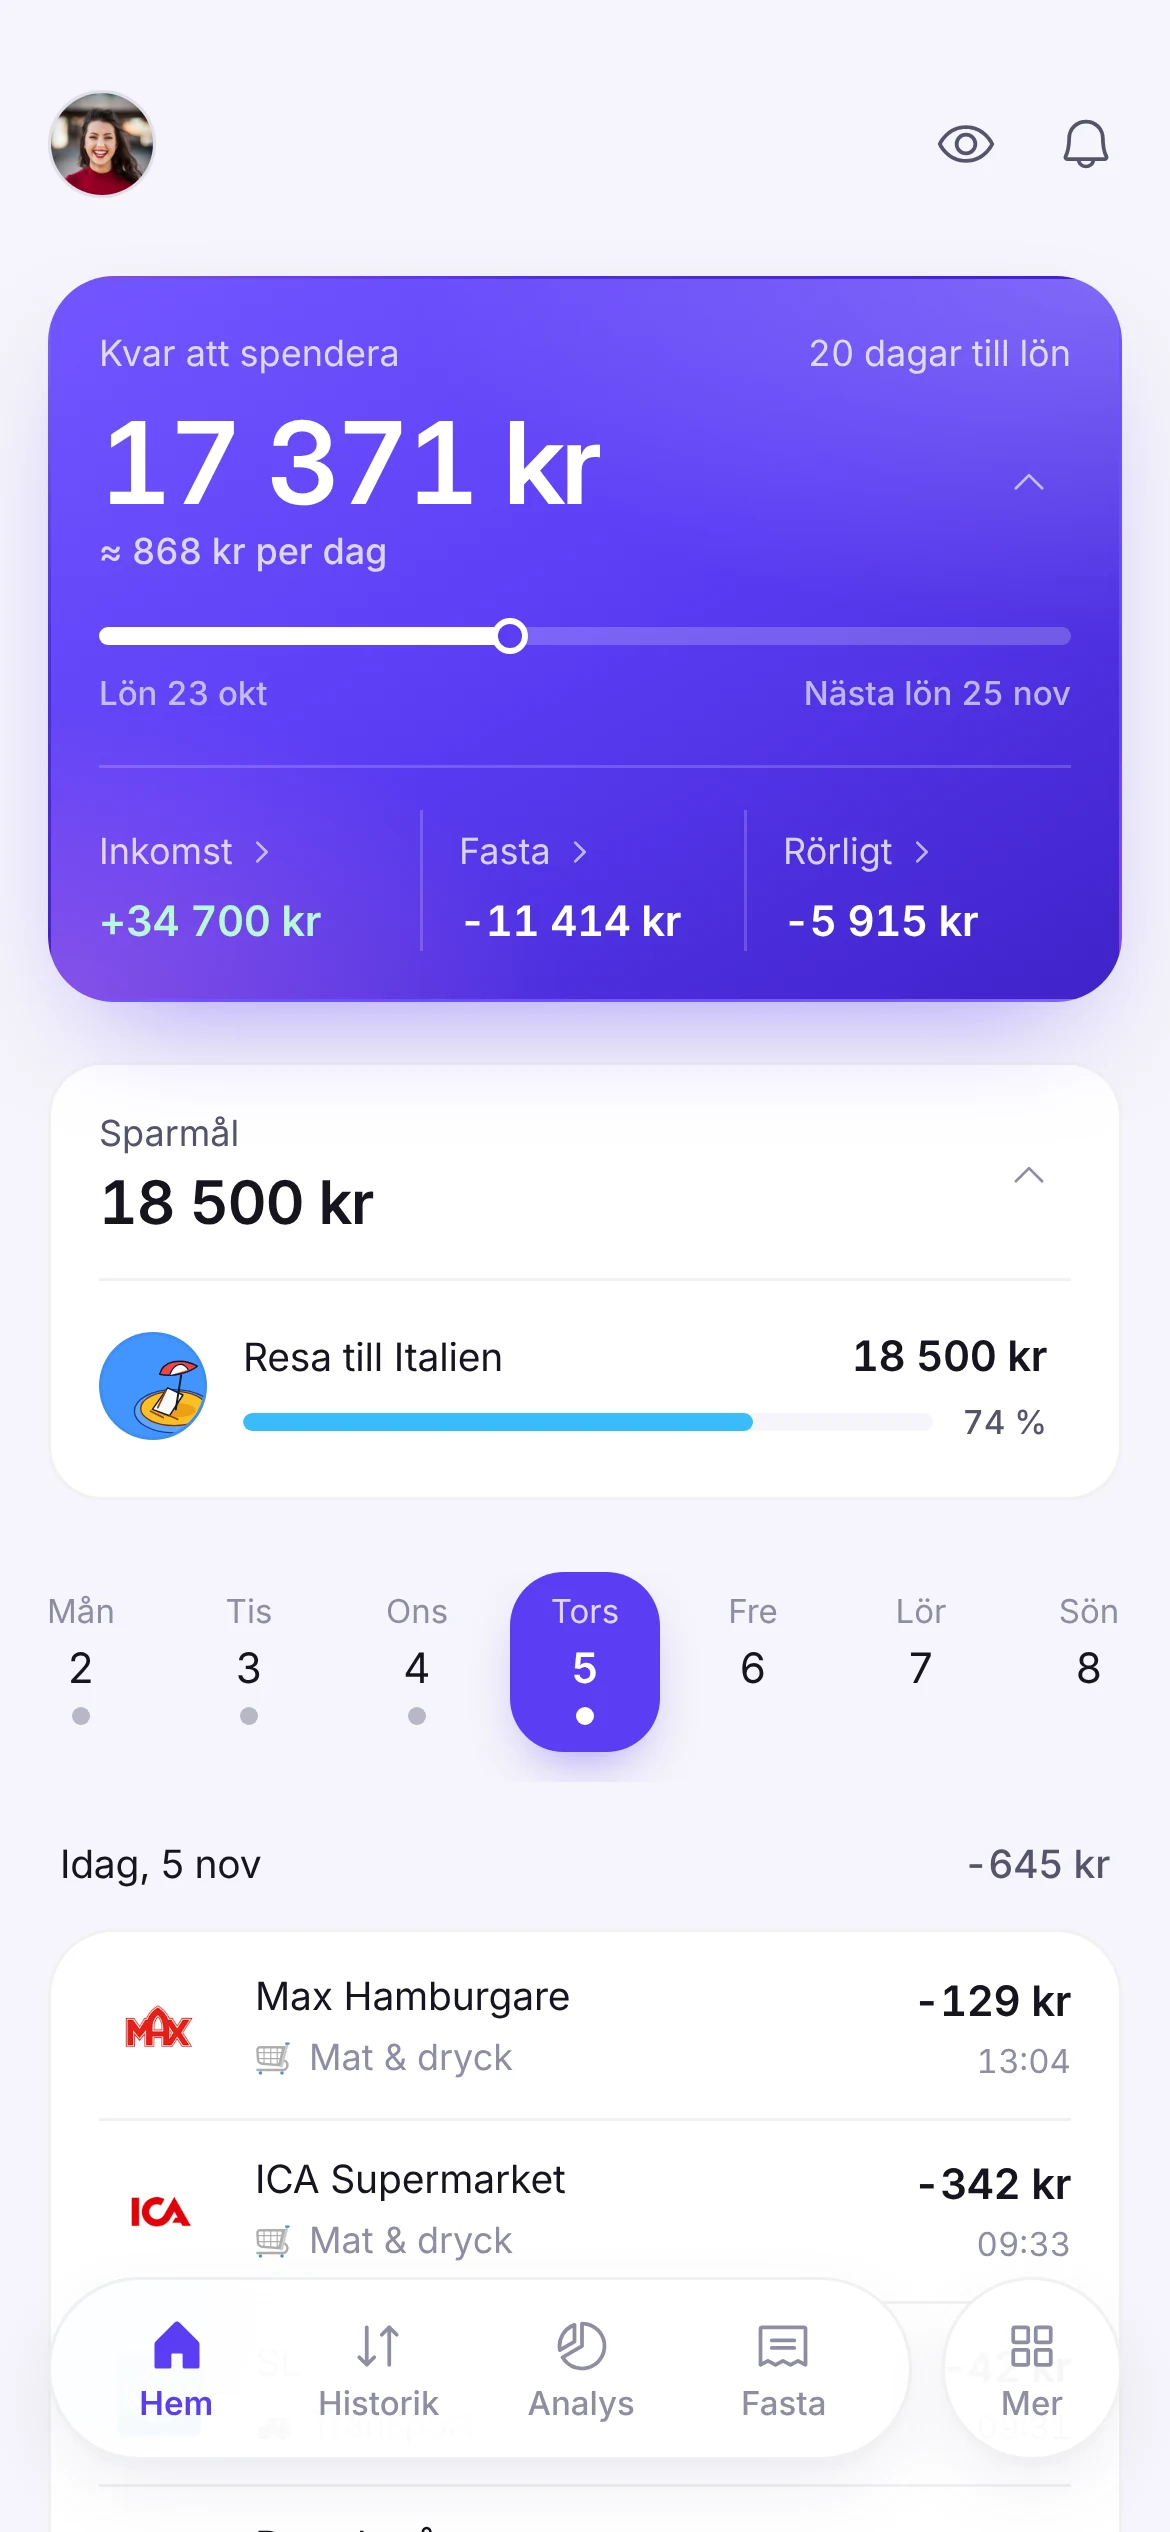
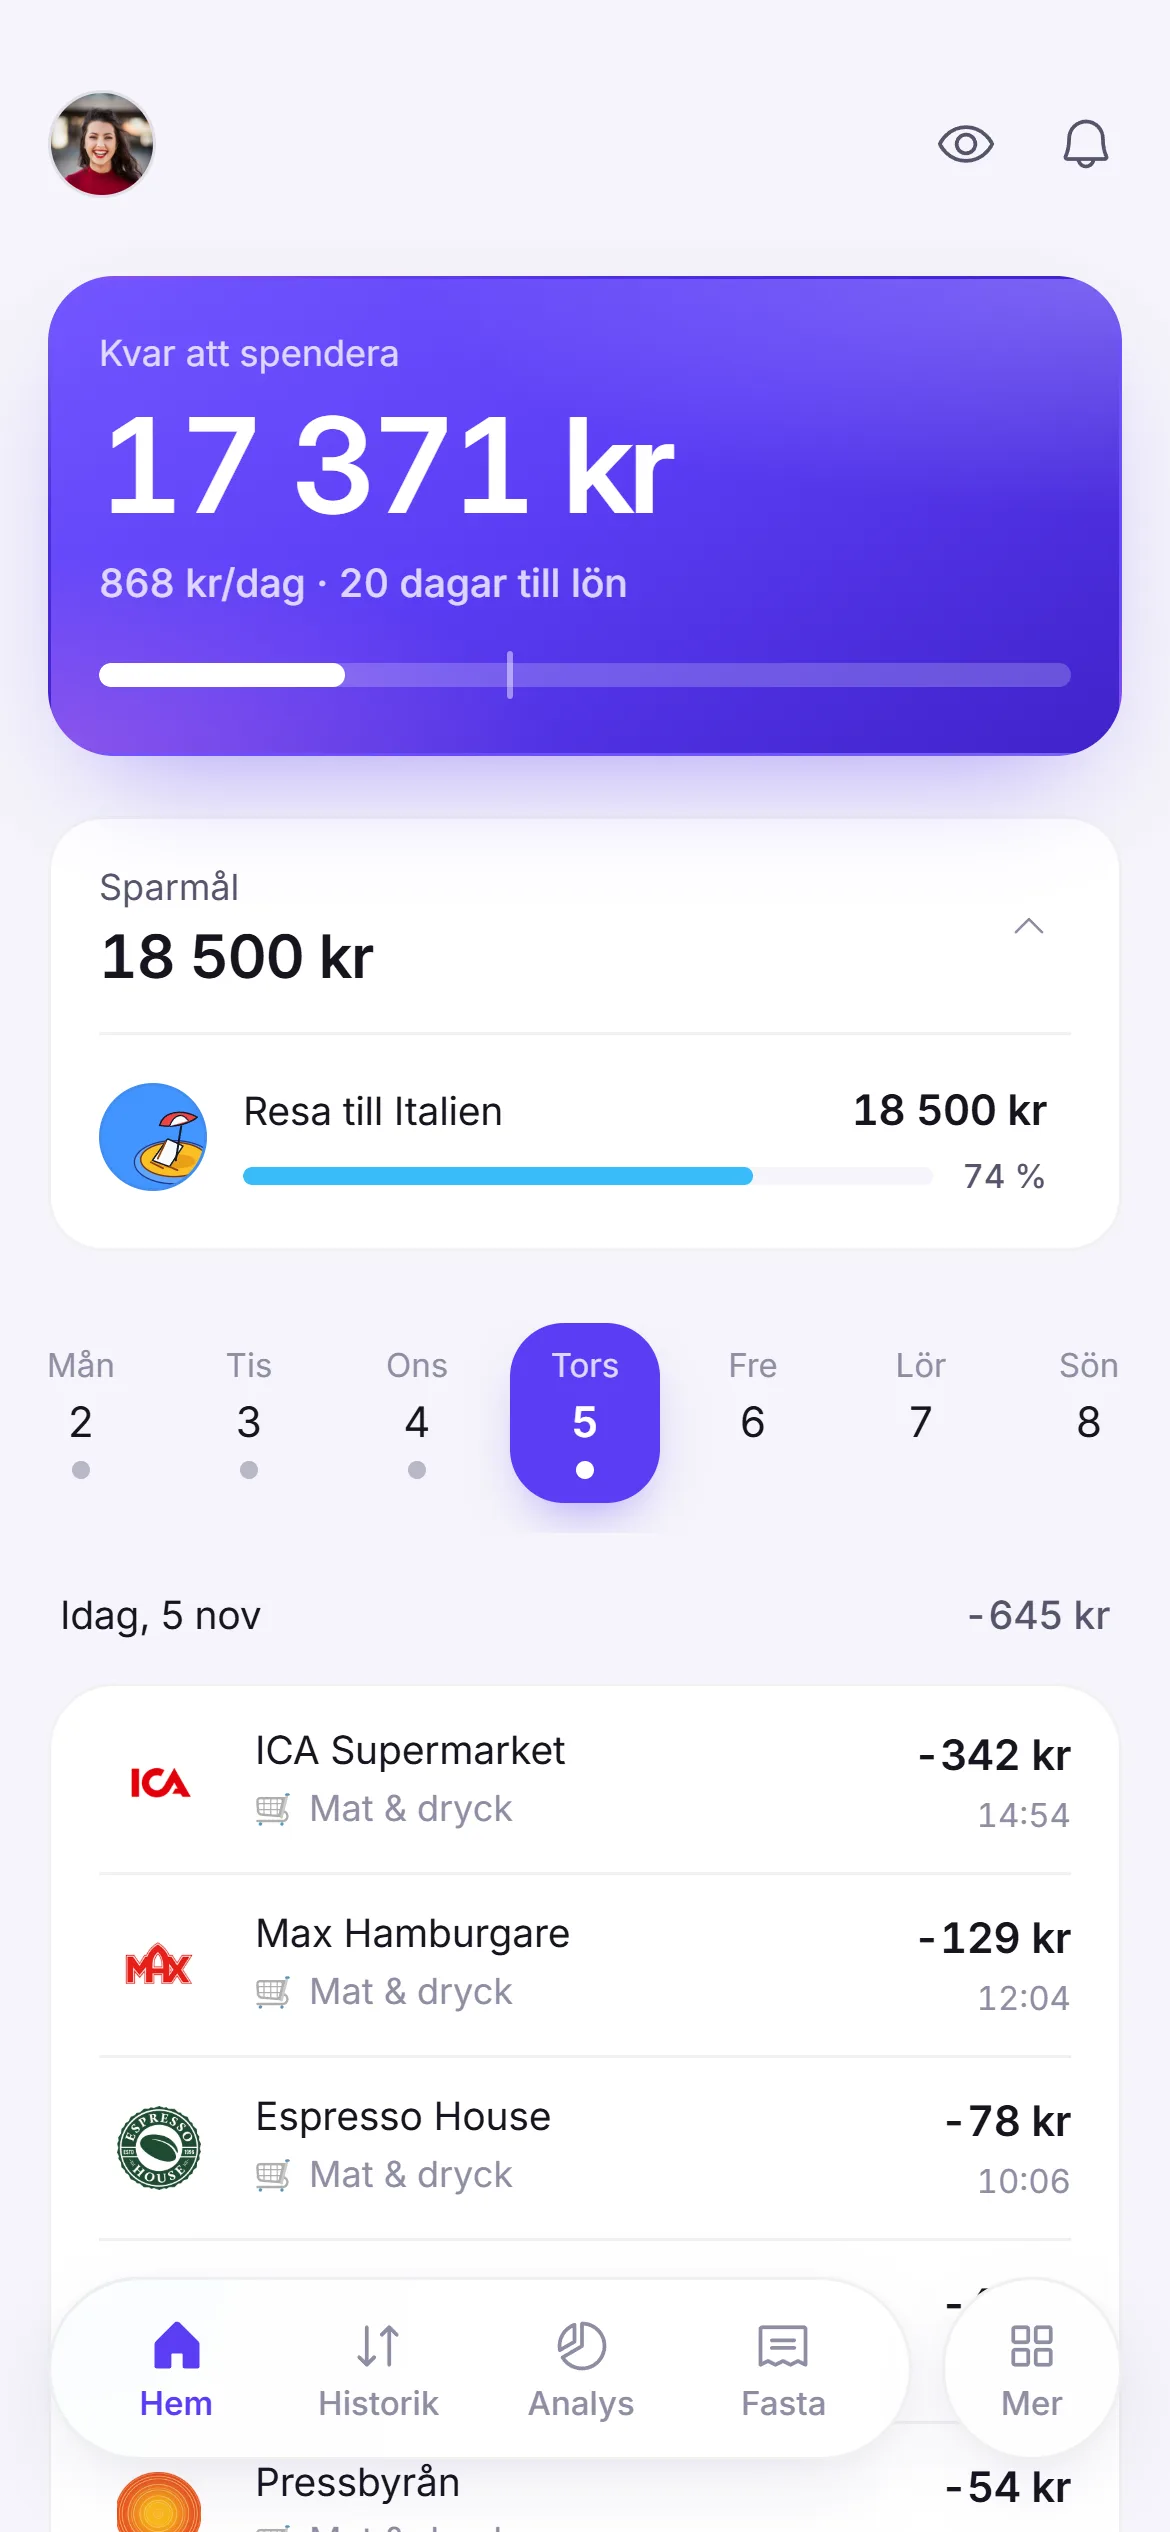
feat(home): slim hero card with pace bar
- Hero shows only the amount, one supporting line ("868 kr/dag · 20 dagar
  till lön") and a pace bar: fill = share of money used, tick = today
- Bar turns amber when spending runs ahead of time and red when over budget;
  text appears only then
- Period dates, "under planen" and Inkomst/Fasta/Rörligt move to the
  tap-to-expand area; hero is collapsed by default for new users
- Landing page: same pace bar in the Dejz card and fresh app screenshots

diff --git a/src/components/HomeTab.tsx b/src/components/HomeTab.tsx
@@ -992,6 +992,30 @@ export const HomeTab: React.FC<HomeTabProps> = ({
           : totalVariableSpent;
         const isOverBudget = activeKvar < 0;
 
+        // Takt i löneperioden: stapeln = andel av pengarna som är använda,
+        // strecket = var idag ligger i perioden.
+        const timeShare = Math.min(
+          1,
+          Math.max(0, period.daysElapsed / Math.max(1, period.daysTotal))
+        );
+        const spendable = Math.max(0, activeKvar + activeVariable);
+        const spent = Math.max(0, activeVariable);
+        const moneyShare = spendable > 0 ? Math.min(1, spent / spendable) : isOverBudget ? 1 : 0;
+        const paceDiff = Math.round(spendable * timeShare - spent); // + = under planen
+        const tolerance = Math.max(100, spendable * 0.03);
+        const pace: 'over' | 'fast' | 'good' = isOverBudget
+          ? 'over'
+          : paceDiff < -tolerance
+          ? 'fast'
+          : 'good';
+        const daysLabel =
+          period.daysRemaining === 0
+            ? 'Lön idag'
+            : period.daysRemaining === 1
+            ? '1 dag till lön'
+            : `${period.daysRemaining} dagar till lön`;
+        const perDay = activeKvar > 0 ? Math.floor(activeKvar / Math.max(1, period.daysRemaining)) : 0;
+
         return (
           <section className={`ui-card-p dejz-hero ${isOverBudget ? 'dejz-hero--over' : ''}`}>
             {householdBudgetStats && (
@@ -1089,22 +1113,15 @@ export const HomeTab: React.FC<HomeTabProps> = ({
                     {isOverBudget ? 'Över budget' : 'Kvar att spendera'}
                   </span>
                 )}
-                <span className="text-[12px] text-[var(--text-secondary)] font-normal tabular-nums text-right">
-                  {period.daysRemaining === 0
-                    ? 'Lön idag'
-                    : period.daysRemaining === 1
-                    ? '1 dag till lön'
-                    : `${period.daysRemaining} dagar till lön`}
-                </span>
               </div>
 
-              <div className="flex items-center justify-between gap-3 mt-0.5">
+              <div className="mt-0.5">
                 {isInitialLoading && accounts.length === 0 ? (
-                  <div className="h-9 w-40 rounded-2xl bg-[var(--surface-raised)] animate-pulse mt-1" />
+                  <div className="h-11 w-44 rounded-2xl bg-[var(--surface-raised)] animate-pulse mt-1.5" />
                 ) : (
                   <div className="min-w-0">
                     <div
-                      className={`font-display text-[38px] sm:text-[42px] font-[600] tracking-[-0.03em] leading-none tabular-nums mt-1.5 ${
+                      className={`font-display text-[44px] sm:text-[48px] font-[600] tracking-[-0.035em] leading-none tabular-nums mt-1.5 ${
                         activeKvar >= 0
                           ? 'text-[var(--text-primary)]'
                           : 'text-rose-600 dark:text-rose-400'
@@ -1112,11 +1129,11 @@ export const HomeTab: React.FC<HomeTabProps> = ({
                     >
                       {formatKr(activeKvar)}
                     </div>
-                    {activeKvar > 0 && (
-                      <div className="text-[12px] text-[var(--text-secondary)] mt-0.5 tabular-nums">
-                        ≈ {formatKr(Math.floor(activeKvar / Math.max(1, period.daysRemaining)))} per dag
-                      </div>
-                    )}
+                    {/* En stödrad: per dag + dagar till lön */}
+                    <div className="text-[13px] text-[var(--text-secondary)] mt-2 tabular-nums">
+                      {perDay > 0 && <>{formatKr(perDay)}/dag · </>}
+                      {daysLabel}
+                    </div>
                     {isJointMode && (
                       <div className="text-[12px] text-[var(--text-secondary)] flex items-center gap-1.5 mt-0.5">
                         <span>
@@ -1129,47 +1146,51 @@ export const HomeTab: React.FC<HomeTabProps> = ({
                     )}
                   </div>
                 )}
-
-                <span className="w-7 h-7 rounded-full flex items-center justify-center text-[var(--text-muted)] group-hover:text-[var(--text-primary)] group-hover:bg-[var(--bg-color)] transition-all shrink-0">
-                  <CaretDown
-                    size={14}
-                    weight="regular"
-                    className={`transition-transform duration-200 ${
-                      showBudgetBreakdown ? 'rotate-180' : ''
-                    }`}
-                  />
-                </span>
               </div>
 
-              {/* Löneperioden som tidslinje: Lön → Idag → Nästa lön */}
-              {(() => {
-                const pct = Math.min(
-                  100,
-                  Math.max(0, (period.daysElapsed / Math.max(1, period.daysTotal)) * 100)
-                );
-                return (
-                  <div className="mt-4">
-                    <div className="relative h-1.5 rounded-full bg-[var(--bg-color)]">
-                      <div
-                        className={`absolute inset-y-0 left-0 rounded-full ${
-                          isOverBudget ? 'bg-rose-500' : 'bg-[var(--text-primary)]'
-                        }`}
-                        style={{ width: `${pct}%` }}
-                      />
-                      <div
-                        className={`absolute top-1/2 -translate-x-1/2 -translate-y-1/2 w-3 h-3 rounded-full bg-[var(--surface-color)] border-[2.5px] ${
-                          isOverBudget ? 'border-rose-500' : 'border-[var(--text-primary)]'
-                        }`}
-                        style={{ left: `${pct}%` }}
-                      />
-                    </div>
-                    <div className="mt-2 flex items-center justify-between text-[11px] text-[var(--text-muted)] tabular-nums">
-                      <span>Lön {period.startLabel}</span>
-                      <span>Nästa lön {period.nextPayLabel}</span>
-                    </div>
-                  </div>
-                );
-              })()}
+              {/* Stapel: fyllning = använda pengar, streck = idag. Färgen visar takten. */}
+              <div className="mt-4 relative">
+                <div className="relative h-2 rounded-full bg-[var(--bg-color)] overflow-hidden">
+                  <div
+                    className={`absolute inset-y-0 left-0 rounded-full transition-all duration-500 ${
+                      pace === 'over'
+                        ? 'bg-rose-500'
+                        : pace === 'fast'
+                        ? 'bg-amber-500'
+                        : 'bg-[var(--text-primary)]'
+                    }`}
+                    style={{ width: `${moneyShare * 100}%` }}
+                  />
+                </div>
+                <span
+                  aria-hidden="true"
+                  className="absolute -top-1 -bottom-1 w-[2px] -translate-x-1/2 rounded-full bg-[var(--text-primary)]/45"
+                  style={{ left: `${timeShare * 100}%` }}
+                />
+              </div>
+
+              {/* Text bara när något behöver uppmärksamhet */}
+              {pace !== 'good' && (
+                <div className="mt-2.5 flex items-center gap-1.5 text-[12px] tabular-nums">
+                  <span
+                    aria-hidden="true"
+                    className={`w-1.5 h-1.5 rounded-full shrink-0 ${
+                      pace === 'over' ? 'bg-rose-500' : 'bg-amber-500'
+                    }`}
+                  />
+                  <span className="text-[var(--text-secondary)]">
+                    {pace === 'over' ? (
+                      <>Pengarna är slut för den här perioden</>
+                    ) : (
+                      <>
+                        <span className="font-medium text-amber-700 dark:text-amber-400">Lite för snabbt</span>
+                        {' – '}
+                        {formatKr(Math.abs(paceDiff))} över planen
+                      </>
+                    )}
+                  </span>
+                </div>
+              )}
             </button>
 
             {/* Mjukt utfällbar 3-kolumns översikt (Inkomst · Fasta · Rörligt) */}
@@ -1181,7 +1202,19 @@ export const HomeTab: React.FC<HomeTabProps> = ({
               }`}
             >
               <div className="overflow-hidden">
-                <div className="ui-stat-grid pt-3.5 border-t border-[var(--border-subtle)]">
+                {/* Detaljer: löneperioden och takten i ord */}
+                <div className="pt-3.5 border-t border-[var(--border-subtle)] flex items-center justify-between gap-3 text-[12px] text-[var(--text-secondary)] tabular-nums">
+                  <span>
+                    Lön {period.startLabel} → {period.nextPayLabel}
+                  </span>
+                  {pace === 'good' && spendable > 0 && (
+                    <span className="inline-flex items-center gap-1.5 text-right">
+                      <span aria-hidden="true" className="w-1.5 h-1.5 rounded-full bg-emerald-500 shrink-0" />
+                      {paceDiff >= 50 ? `${formatKr(paceDiff)} under planen` : 'Bra takt'}
+                    </span>
+                  )}
+                </div>
+                <div className="ui-stat-grid pt-3.5 mt-3.5 border-t border-[var(--border-subtle)]">
                   <button
                     type="button"
                     onClick={() =>
@@ -1193,11 +1226,6 @@ export const HomeTab: React.FC<HomeTabProps> = ({
                   >
                     <span className="ui-stat-label inline-flex items-center gap-1">
                       <span>{isJointMode ? 'Gemensam inkomst' : 'Inkomst'}</span>
-                      <CaretRight
-                        size={10}
-                        weight="bold"
-                        className="text-[var(--text-muted)] group-hover/stat:text-[var(--text-primary)] group-hover/stat:translate-x-0.5 transition-all shrink-0"
-                      />
                     </span>
                     {isInitialLoading && accounts.length === 0 ? (
                       <div className="h-4 w-12 rounded bg-[var(--surface-raised)] animate-pulse mt-1" />
@@ -1219,11 +1247,6 @@ export const HomeTab: React.FC<HomeTabProps> = ({
                   >
                     <span className="ui-stat-label inline-flex items-center gap-1">
                       <span>{isJointMode ? 'Gemensamma fasta' : 'Fasta'}</span>
-                      <CaretRight
-                        size={10}
-                        weight="bold"
-                        className="text-[var(--text-muted)] group-hover/stat:text-[var(--text-primary)] group-hover/stat:translate-x-0.5 transition-all shrink-0"
-                      />
                     </span>
                     {isInitialLoading && accounts.length === 0 ? (
                       <div className="h-4 w-12 rounded bg-[var(--surface-raised)] animate-pulse mt-1" />
@@ -1245,11 +1268,6 @@ export const HomeTab: React.FC<HomeTabProps> = ({
                   >
                     <span className="ui-stat-label inline-flex items-center gap-1">
                       <span>{isJointMode ? 'Gemensamt rörligt' : 'Rörligt'}</span>
-                      <CaretRight
-                        size={10}
-                        weight="bold"
-                        className="text-[var(--text-muted)] group-hover/stat:text-[var(--text-primary)] group-hover/stat:translate-x-0.5 transition-all shrink-0"
-                      />
                     </span>
                     {isInitialLoading && accounts.length === 0 ? (
                       <div className="h-4 w-12 rounded bg-[var(--surface-raised)] animate-pulse mt-1" />

diff --git a/src/components/WaitlistLanding.tsx b/src/components/WaitlistLanding.tsx
@@ -429,19 +429,19 @@ const PhoneFrame: React.FC<{
 
 const STEPS = [
   {
-    src: '/screens/ekonomi.webp?v=6',
+    src: '/screens/ekonomi.webp?v=8',
     alt: 'Dejz – inkomster och fasta utgifter',
     title: 'Koppla din bank',
     text: 'Dejz hittar din lön, hyra och prenumerationer och räknar av dem varje löneperiod.',
   },
   {
-    src: '/screens/historik.webp?v=6',
+    src: '/screens/historik.webp?v=8',
     alt: 'Dejz – historik över köp',
     title: 'Köpen dyker upp av sig själva',
     text: 'Varje köp hamnar i Dejz med butik, logga och kategori. Du behöver inte göra något.',
   },
   {
-    src: '/screens/analys.webp?v=6',
+    src: '/screens/analys.webp?v=8',
     alt: 'Dejz – analys av utgifter per kategori',
     title: 'Se vart pengarna tar vägen',
     text: 'En tydlig överblick per kategori för varje löneperiod – inte per kalendermånad.',
@@ -506,13 +506,24 @@ const ComparisonVisual: React.FC = () => (
         2 340 kr
       </div>
       <div className="mt-1.5 text-sm text-white/80 tabular-nums">≈ 390 kr per dag</div>
-      <div className="mt-4 relative h-1.5 rounded-pill bg-white/20">
-        <div className="absolute inset-y-0 left-0 w-[80%] rounded-pill bg-white" />
-        <div className="absolute top-1/2 left-[80%] -translate-x-1/2 -translate-y-1/2 w-3 h-3 rounded-full bg-[#5B3DF5] border-2 border-white" />
+      {/* Samma takt-visning som i appen: stapeln = använda pengar, strecket = idag */}
+      <div className="mt-6 relative">
+        <span className="absolute -top-4 left-[80%] -translate-x-1/2 text-[9.5px] font-medium uppercase tracking-[0.06em] text-white/70">
+          Idag
+        </span>
+        <div className="h-2 rounded-pill bg-white/20 overflow-hidden">
+          <div className="h-full w-[75%] rounded-pill bg-white" />
+        </div>
+        <span className="absolute -top-1 -bottom-1 left-[80%] w-[2px] -translate-x-1/2 rounded-pill bg-white/60" />
       </div>
       <div className="mt-2 flex justify-between text-xs text-white/70 tabular-nums">
         <span>Lön 25 okt</span>
         <span>Nästa lön 25 nov</span>
+      </div>
+      <div className="mt-3 flex items-center gap-1.5 text-xs tabular-nums">
+        <span className="w-1.5 h-1.5 rounded-full bg-emerald-400" />
+        <span className="font-medium">Bra takt</span>
+        <span className="text-white/75">– 468 kr under planen</span>
       </div>
     </div>
   </div>
@@ -717,10 +728,10 @@ export const WaitlistLanding: React.FC<WaitlistLandingProps> = ({
           <div className="relative mx-auto w-full max-w-[420px] h-[560px] sm:h-[620px]">
             <div className="absolute inset-x-6 top-16 bottom-6 rounded-full bg-[radial-gradient(closest-side,rgba(91,61,245,0.22),transparent)] blur-2xl" />
             <div className="hidden sm:block absolute right-0 top-12 w-[230px] rotate-[6deg]">
-              <PhoneFrame src="/screens/analys.webp?v=6" alt="" />
+              <PhoneFrame src="/screens/analys.webp?v=8" alt="" />
             </div>
             <div className="absolute left-1/2 -translate-x-1/2 sm:left-2 sm:translate-x-0 top-0 w-[255px] sm:w-[270px]">
-              <PhoneFrame src="/screens/home.webp?v=6" alt="Dejz hemskärm – kvar att spendera" eager />
+              <PhoneFrame src="/screens/home.webp?v=8" alt="Dejz hemskärm – kvar att spendera" eager />
             </div>
           </div>
         </section>

diff --git a/src/utils/appCache.ts b/src/utils/appCache.ts
@@ -1189,14 +1189,15 @@ export function saveStoredPaymentMethods(methods: PaymentMethodItem[]): void {
 // --- Show Accounts & Budget Breakdown Toggle Persistence (Hemfliken) ---
 const SHOW_BUDGET_BREAKDOWN_ON_HOME_KEY = 'dejz_show_budget_breakdown_on_home';
 
+// Standard: hopfällt hemkort (bara belopp, stödrad och stapel). Detaljer visas vid tryck.
 export function getShowBudgetBreakdownOnHome(): boolean {
-  if (typeof window === 'undefined') return true;
+  if (typeof window === 'undefined') return false;
   try {
     const stored = localStorage.getItem(SHOW_BUDGET_BREAKDOWN_ON_HOME_KEY);
-    if (stored === null) return true;
+    if (stored === null) return false;
     return stored === 'true';
   } catch {
-    return true;
+    return false;
   }
 }
 
